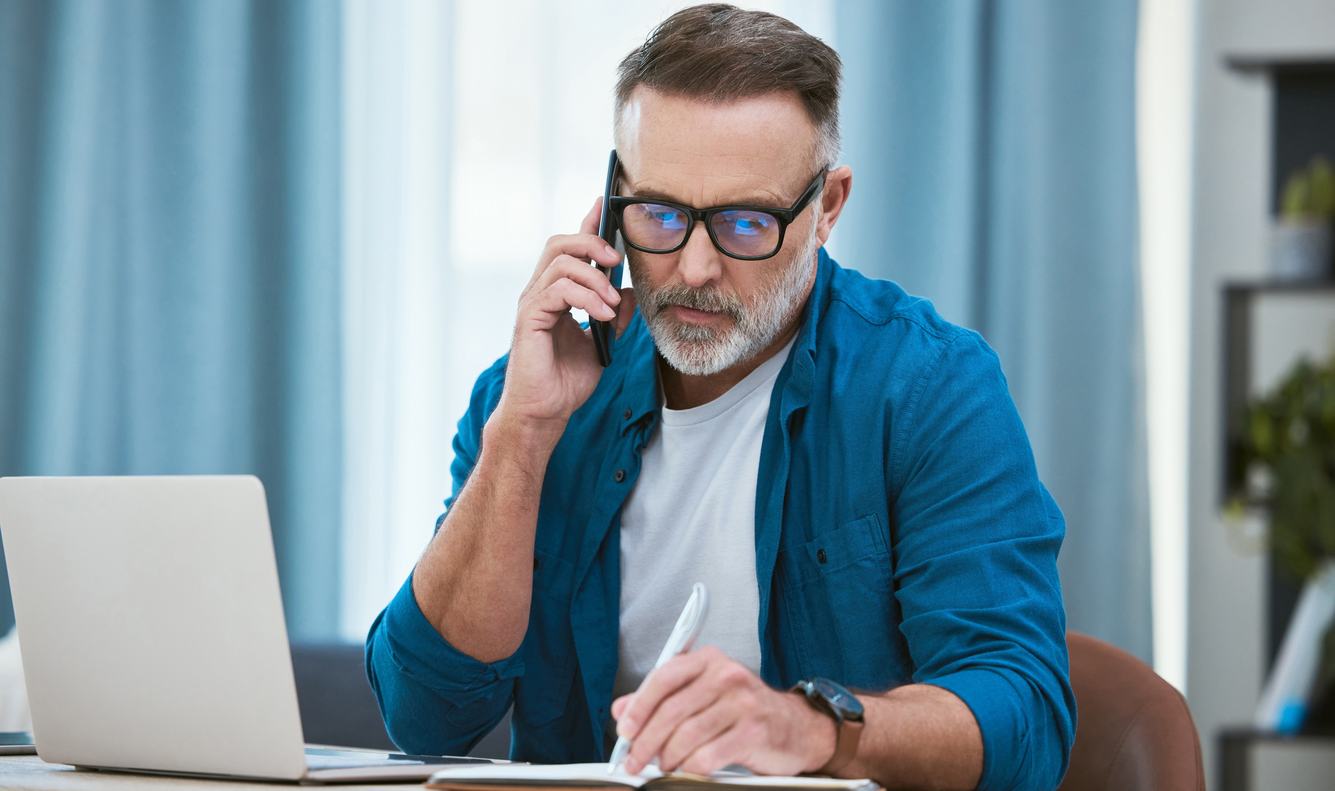
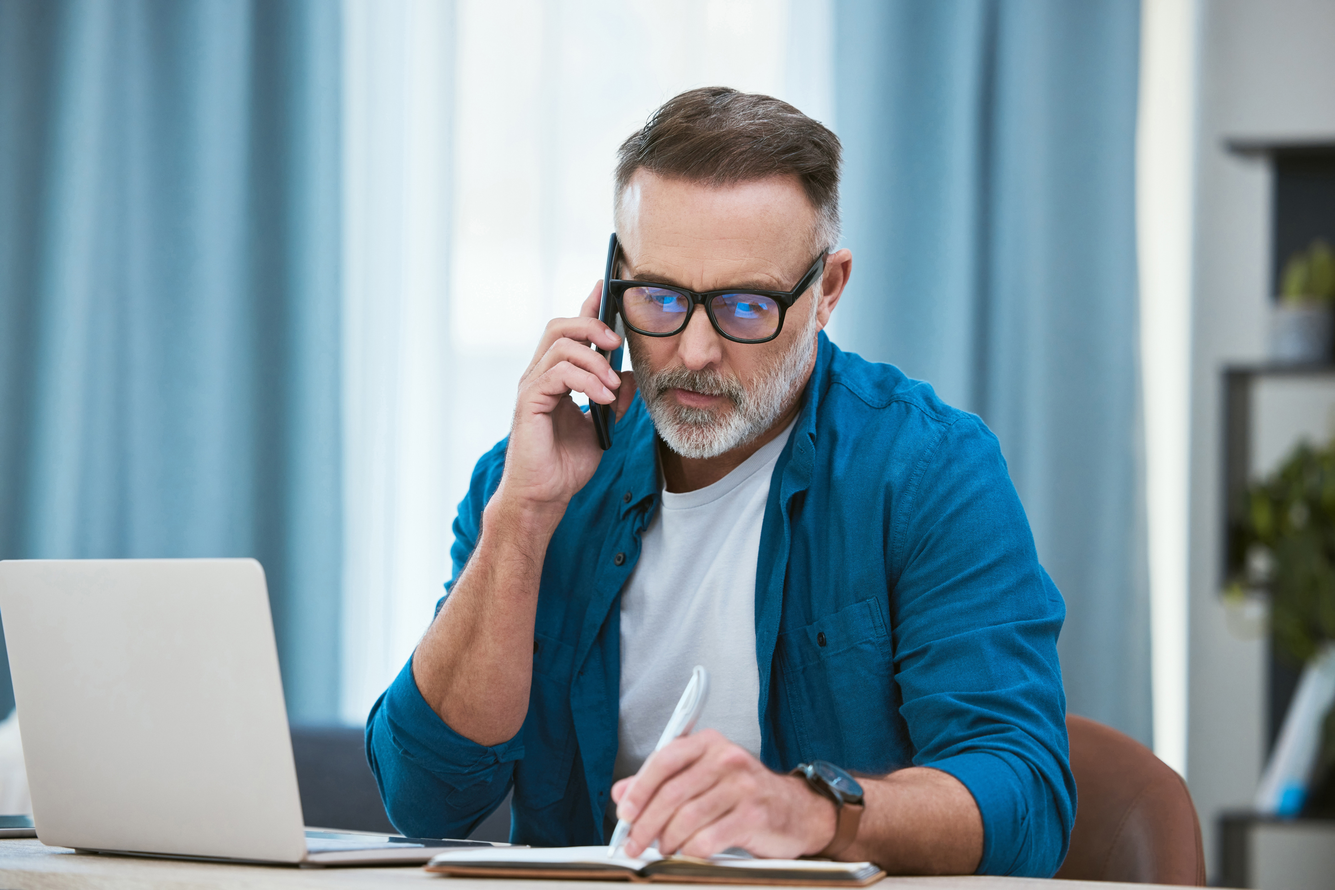
QSEconomize and ServicosBanner images updated. Quem somos text updated. Sevicos caixas text updated.

diff --git a/src/components/QSEconomize/index.jsx b/src/components/QSEconomize/index.jsx
@@ -1,7 +1,7 @@
 import styled from "styled-components";
 
 const QSEconomizeStyled = styled.div`
-  background-image: url("/images/economize-bg.jpg");
+  background-image: url("/images/economize-bg.gif");
   background-size: cover;
   background-repeat: no-repeat;
   height: 100vh;
@@ -13,6 +13,7 @@ const QSEconomizeStyled = styled.div`
     font-family: ${({ theme }) => theme.fonts.primary};
     font-size: 3vw;
     margin-left: 5vw;
+    margin-bottom: 80px;
   }
   .banner {
     width: 35%;
@@ -26,7 +27,7 @@ const QSEconomizeStyled = styled.div`
       padding: 10px 40px 10px 5vw;
       font-family: ${({ theme }) => theme.fonts.primary};
       color: ${({ theme }) => theme.colors.white};
-      width: 80%;
+      width: 85%;
     }
   }
 
@@ -37,6 +38,8 @@ const QSEconomizeStyled = styled.div`
     width: 10vw;
     height: 2.5vw;
     font-size: 1.2vw;
+    background-color: ${({ theme }) => theme.colors.secondary};
+    transition: background-color 0.3s, color 0.3s;
     color: ${({ theme }) => theme.colors.primary};
     margin: 20px 0 0 10vw;
     &:hover {
@@ -56,7 +59,7 @@ function QSEconomize() {
       <div className="banner">
         <p>
           Reduzimos em até 80% os custos financeiros das empresas, oferecendo
-          prazos mais longos e melhor gestão de dívidas.
+          as melhores taxas de juros e os prazos mais adequados.
         </p>{" "}
       </div>
       <button>Saiba mais</button>

diff --git a/src/components/QSQuemsomos/index.jsx b/src/components/QSQuemsomos/index.jsx
@@ -33,12 +33,14 @@ function QSQuemSomos() {
   return (
     <QSQuemSomosStyled id="QSQuemSomos">
       <div className="text">
-        <h2>Quem Somos</h2>{" "}
+        <h2>Quem somos</h2>{" "}
         <p>
-          Somos uma Fintech com equipe liderada por José Gomes da Costa, ex-CEO
-          do Banco do Nordeste, economista e mestre em economia pela UFPE, MBA
-          em finanças pela EPGE-FGV-RJ e especialização em “Banking” pela
-          EAESP-FGV-SP, com larga experiência no setor bancário.
+          Somos uma Fintech formada por equipe multidisciplinar e experiente,
+          sob a liderança de José Gomes da Costa, ex-CEO do Banco do Nordeste,
+          ex-diretor financeiro e de crédito, ex-membro do conselho de
+          administração do banco. Economistas e mestre em economia pela UFPE,
+          com larga formação acadêmica (EPGE-FGV-RJ, EAESP-FGV-SP, Fundação Dom
+          Cabral) e grande experiência no mercado financeiro e de crédito.
         </p>
       </div>
       <img src="/images/quem-somos-img.jpg" alt="" />

diff --git a/src/components/ServicosCaixas/index.jsx b/src/components/ServicosCaixas/index.jsx
@@ -57,7 +57,6 @@ const Box = styled.div`
   text-align: center;
   border-radius: 15px;
   padding: 40px;
-
   p {
     margin: 0;
     line-height: 1.5;
@@ -76,19 +75,20 @@ function ServicosCaixas() {
       <GridContainer>
         <Box>
           <p>
-            Automatização, via API, de pagamentos e recebimentos bancários, com
-            conciliação de contas.
+            Financiamento de investimentos e capital de giro, com taxas abaixo
+            de CDI.
           </p>
         </Box>
         <Box>
           <p>
-            Crédito comercial e <br /> antecipação de recebíveis.
+            Antecipação de recebiveis com benefícios fiscais e custos
+            apropriados.
           </p>
         </Box>
         <Box>
           <p>
-            Financiamento de investimento e capital de giro, para empresas de
-            todos os portes.
+            Automatização de pagamentos e recebimentos por API, com liberação de
+            mão de obra.
           </p>
         </Box>
         <Box>

diff --git a/src/components/ServicosBanner/index.jsx b/src/components/ServicosBanner/index.jsx
@@ -1,11 +1,11 @@
 import styled from "styled-components";
 
 const ServicosBannerStyled = styled.div`
-  background-image: url("/images/servicos-banner.jpg");
+  background-image: url("/images/servicos-banner.gif");
   background-size: contain;
   background-repeat: no-repeat;
   background-position: center;
-  height: 123.4vh;
+  height: 126.6vh;
   width: 100%;
   display: flex;
   flex-direction: column;
@@ -26,6 +26,7 @@ const ServicosBannerStyled = styled.div`
     height: 40px;
     font-size: 1.2vw;
     margin-bottom: 10vw;
+    transition: background-color 0.3s, color 0.3s;
     &:hover {
       background-color: ${({ theme }) => theme.colors.primary};
       color: ${({ theme }) => theme.colors.white};
@@ -37,7 +38,7 @@ function ServicosBanner() {
   return (
     <ServicosBannerStyled>
       <h2>
-        Mais que <br /> um banco, <br /> seu parceiro.
+        Mais que um banco, <br /> seu parceiro.
       </h2>
       <button>Solicite seu crédito</button>
     </ServicosBannerStyled>

diff --git a/src/components/HomeSolucoes/index.jsx b/src/components/HomeSolucoes/index.jsx
@@ -51,7 +51,7 @@ function HomeSolucoes() {
   return (
     <HomeSolucoesStyled>
       <div className="homeSolucoesText">
-        <h2>Soluções financeiras sob medida para você.</h2>
+        <h2>Soluções financeiras<br/> sob medida.</h2>
         <p>Saiba mais <img src="/images/seta.png" alt="" /></p>
       </div>
       <img src="/images/solucoes-img.png" alt="Mulher no computador" />

diff --git a/src/components/ContatoMap/index.jsx b/src/components/ContatoMap/index.jsx
@@ -58,7 +58,7 @@ function ContatoMap() {
         <p>contato@copartnersbank.com.br</p>
         <p>
           {" "}
-          Ou fale diretamente <br /> com a gente clicando{" "}
+          Ou fale diretamente <br /> com a gente pelo WhastApp clicando{" "}
           <a href="https://wa.me/+557187676583" target="blank">
             aqui
           </a>
